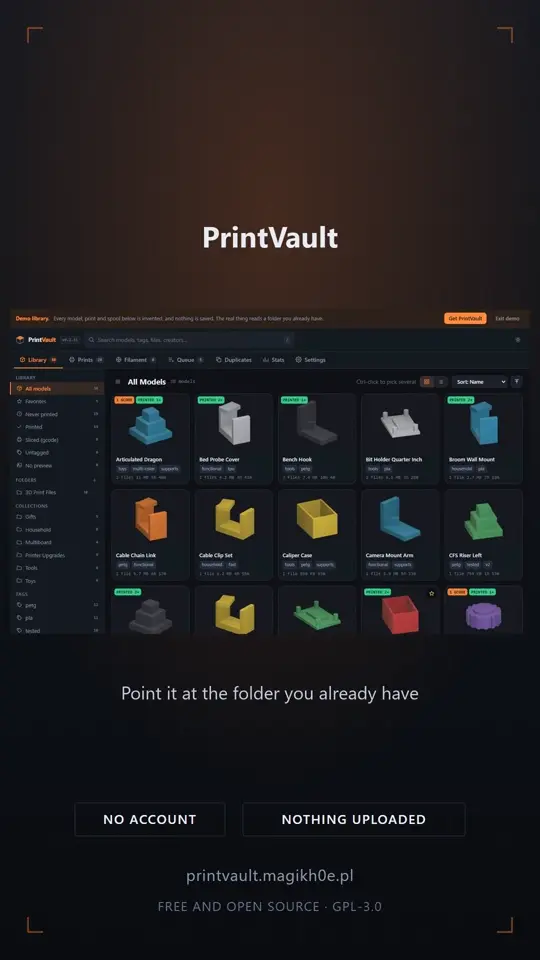
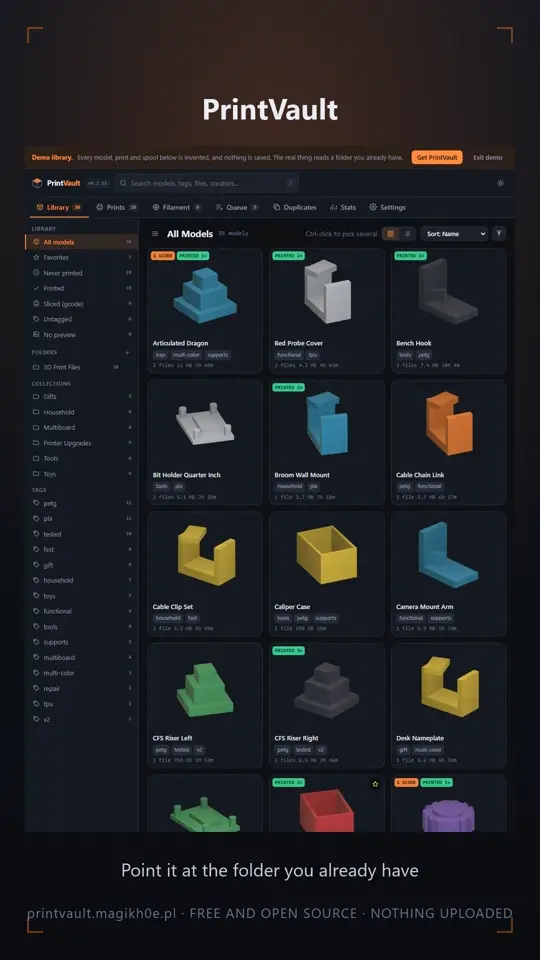
promo: film it in portrait so the clip fills the frame
It was shot at 1280x800 and scaled into a 1080x1920 canvas, which left
the app filling about a third of the height with dead space above and
below it. Both apps hold up at 1000x1400: PrintVault keeps its sidebar
and a three wide grid, Headfit keeps a large viewport, and the clip now
takes 980x1372 of the frame instead of 1040x650.

Two things that only showed up once it was built. Neighbouring captions
both drew on the single frame where one window's end met the next one's
start, because between() includes both ends, so they overlapped for a
frame; each window now stops a frame short. And the concat step fails
outright if a player is holding the previous cut, which is the normal
state while iterating, so it writes a temp and renames, and says so
rather than throwing away the encode.

diff --git a/tools/promo-build.py b/tools/promo-build.py
@@ -19,6 +19,7 @@ with what is on screen.
 Needs ffmpeg and Chrome on PATH.
 """
 from pathlib import Path
+import os
 import shutil
 import subprocess
 import sys
@@ -56,14 +57,7 @@ SHELL = """<defs>
     <path d="M56 86V56h30"/><path d="M994 56h30v30"/><path d="M1024 1834v30h-30"/><path d="M86 1864H56v-30"/>
   </g>"""
 
-FOOT = """<g font-size="26" font-weight="600" letter-spacing="2">
-    <rect x="150" y="1606" width="300" height="66" rx="4" fill="none" stroke="#313d4e"/>
-    <text x="300" y="1648" fill="#e9edf4" text-anchor="middle">NO ACCOUNT</text>
-    <rect x="486" y="1606" width="444" height="66" rx="4" fill="none" stroke="#313d4e"/>
-    <text x="708" y="1648" fill="#e9edf4" text-anchor="middle">NOTHING UPLOADED</text>
-  </g>
-  <text x="540" y="1762" font-size="32" fill="#8f9aac" text-anchor="middle" letter-spacing="1">printvault.magikh0e.pl</text>
-  <text x="540" y="1822" font-size="26" fill="#67718a" text-anchor="middle" letter-spacing="1.6">FREE AND OPEN SOURCE  ·  GPL-3.0</text>"""
+FOOT = """<text x="540" y="1836" font-size="27" fill="#67718a" text-anchor="middle" letter-spacing="1.6">printvault.magikh0e.pl  ·  FREE AND OPEN SOURCE  ·  NOTHING UPLOADED</text>"""
 
 MARK = """<g transform="translate(%d,%d) scale(%s)">
     <path d="M16 2 3 9v14l13 7 13-7V9z" fill="none" stroke="#e9edf4" stroke-opacity=".38" stroke-width="1.6" stroke-linejoin="round"/>
@@ -146,17 +140,20 @@ def esc(text):
 
 
 def build_segment(name, start, dur, heading, captions):
-    chain = [f"[1:v]scale=1040:-2[c]", f"[0:v][c]overlay=(W-w)/2:618[v0]"]
+    chain = [f"[1:v]scale=980:-2[c]", f"[0:v][c]overlay=(W-w)/2:292[v0]"]
     label = ("[v0]drawtext=fontfile='%s':text='%s':fontcolor=#e9edf4:fontsize=58:"
-             "x=(w-text_w)/2:y=452[v1]" % (FONTB, esc(heading)))
+             "x=(w-text_w)/2:y=196[v1]" % (FONTB, esc(heading)))
     chain.append(label)
     tag = "v1"
     for i, (a, b, text) in enumerate(captions):
         nxt = f"c{i}"
         chain.append(
             "[%s]drawtext=fontfile='%s':text='%s':fontcolor=#c6cedb:fontsize=36:"
-            "x=(w-text_w)/2:y=1372:enable='between(t,%.2f,%.2f)'[%s]"
-            % (tag, FONT, esc(text), a, b, nxt))
+            # between() includes both ends, so neighbouring captions both draw
+            # on the single frame where one window's end is the next one's
+            # start, and the two render on top of each other. Stop a frame short.
+            "x=(w-text_w)/2:y=1726:enable='between(t,%.2f,%.2f)'[%s]"
+            % (tag, FONT, esc(text), a, b - 1.0 / FPS, nxt))
         tag = nxt
     out = OUT / f"seg-{name}.mp4"
     run(["ffmpeg", "-v", "error", "-loop", "1", "-i", str(OUT / "frame.png"),
@@ -195,9 +192,20 @@ if __name__ == "__main__":
 
     listing = OUT / "parts.txt"
     listing.write_text("".join(f"file '{p.as_posix()}'\n" for p in parts), encoding="utf-8")
+    # Concat into a temp name first. Windows refuses to overwrite a file that
+    # something has open, and a video player holding the last cut is the normal
+    # state of affairs while you are iterating on it. Failing after the encode
+    # has already run is a waste of the only slow part.
     final = OUT / "printvault-headfit-reel.mp4"
+    tmp = OUT / "printvault-headfit-reel.new.mp4"
     run(["ffmpeg", "-v", "error", "-f", "concat", "-safe", "0", "-i", str(listing),
-         "-c", "copy", "-movflags", "+faststart", "-y", str(final)])
+         "-c", "copy", "-movflags", "+faststart", "-y", str(tmp)])
+    try:
+        os.replace(tmp, final)
+    except OSError:
+        print(f"\n{final.name} is open somewhere, so the new cut is {tmp.name}.")
+        print("Close it and rename, or re-run this once it is closed.")
+        final = tmp
     size = final.stat().st_size / 1_000_000
     dur = subprocess.run(["ffprobe", "-v", "error", "-show_entries", "format=duration",
                           "-of", "csv=p=0", str(final)], capture_output=True, text=True).stdout.strip()

diff --git a/tools/promo-record.py b/tools/promo-record.py
@@ -25,7 +25,11 @@ ROOT = Path(__file__).resolve().parent.parent
 OUT = ROOT / "promo"
 APP = "http://localhost:9123/index.html?demo"
 HEADFIT = "http://localhost:9124/headfit.html"
-SIZE = {"width": 1280, "height": 800}
+# Portrait, because the reel is portrait. Filming at 1280x800 and scaling it
+# into a 1080x1920 canvas left the clip filling barely a third of the height
+# with dead space above and below. Both apps hold up at 1000x1400: PrintVault
+# keeps its sidebar and a three wide grid, Headfit keeps a large viewport.
+SIZE = {"width": 1000, "height": 1400}
 
 
 def beat(page, seconds):
